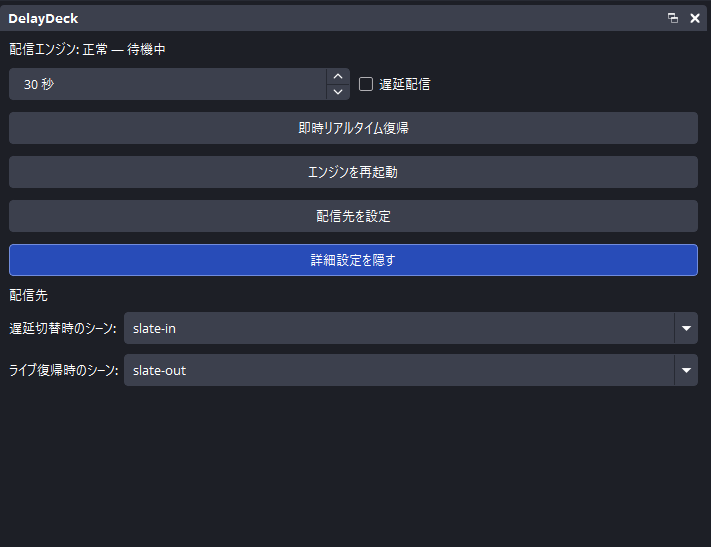
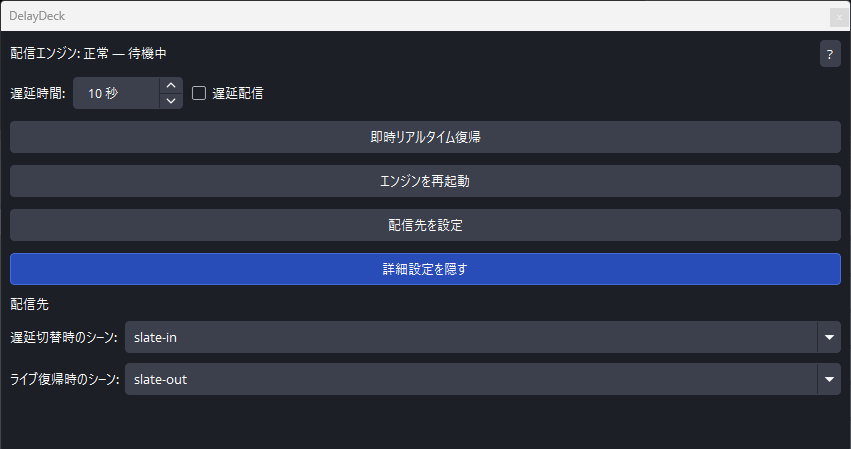
DelayDeckのバージョンを安定版1.0.0に更新。新しい「About」ダイアログを追加し、ツールチップを改善。

diff --git a/apps/obs-plugin/src/dock/about-dialog.cpp b/apps/obs-plugin/src/dock/about-dialog.cpp
@@ -1,0 +1,70 @@
+#include "dock/about-dialog.hpp"
+
+#include "locale/tr.hpp"
+#include "version.hpp"
+
+#include <QDialogButtonBox>
+#include <QFont>
+#include <QLabel>
+#include <QVBoxLayout>
+
+namespace delaydeck {
+
+namespace {
+
+constexpr const char *kGithubUrl = "https://github.com/KatoJunta/DelayDeck";
+constexpr const char *kXUrl = "https://x.com/KatoJunta";
+
+QLabel *makeLinkLabel(const QString &text, const char *url, QWidget *parent)
+{
+	auto *label = new QLabel(
+		QStringLiteral("<a href=\"%1\">%2</a>")
+			.arg(QString::fromUtf8(url), text.toHtmlEscaped()),
+		parent);
+	label->setOpenExternalLinks(true);
+	label->setTextInteractionFlags(Qt::TextBrowserInteraction);
+	return label;
+}
+
+} // namespace
+
+AboutDialog::AboutDialog(QWidget *parent) : QDialog(parent)
+{
+	setWindowTitle(delaydeck::tr("About.Title"));
+	setModal(true);
+
+	auto *layout = new QVBoxLayout(this);
+	layout->setSpacing(10);
+
+	auto *title = new QLabel(QStringLiteral("DelayDeck"), this);
+	QFont titleFont = title->font();
+	titleFont.setPointSizeF(titleFont.pointSizeF() * 1.4);
+	titleFont.setBold(true);
+	title->setFont(titleFont);
+	layout->addWidget(title);
+
+	auto *version = new QLabel(
+		delaydeck::tr("About.Version")
+			.arg(QString::fromUtf8(DELAYDECK_PLUGIN_VERSION)),
+		this);
+	version->setTextInteractionFlags(Qt::TextSelectableByMouse);
+	layout->addWidget(version);
+
+	auto *description = new QLabel(delaydeck::tr("About.Description"), this);
+	description->setWordWrap(true);
+	layout->addWidget(description);
+
+	layout->addSpacing(4);
+	layout->addWidget(
+		makeLinkLabel(delaydeck::tr("About.GithubLink"), kGithubUrl, this));
+	layout->addWidget(makeLinkLabel(delaydeck::tr("About.XLink"), kXUrl, this));
+	layout->addSpacing(4);
+
+	auto *buttons = new QDialogButtonBox(QDialogButtonBox::Close, this);
+	connect(buttons, &QDialogButtonBox::rejected, this, &QDialog::reject);
+	layout->addWidget(buttons);
+
+	setFixedSize(sizeHint());
+}
+
+} // namespace delaydeck

diff --git a/apps/obs-plugin/src/dock/delaydeck-dock.cpp b/apps/obs-plugin/src/dock/delaydeck-dock.cpp
@@ -3,6 +3,7 @@
 #include "config/dock-settings.hpp"
 #include "config/relay-settings.hpp"
 #include "config/setup-dialog.hpp"
+#include "dock/about-dialog.hpp"
 #include "locale/tr.hpp"
 #include "preflight/preflight-checker.hpp"
 #include "preflight/preflight-dialog.hpp"
@@ -19,6 +20,7 @@
 #include <QMessageBox>
 #include <QSignalBlocker>
 #include <QTimer>
+#include <QToolButton>
 #include <QVBoxLayout>
 
 namespace {
@@ -297,10 +299,19 @@ DelayDeckDock::DelayDeckDock(QWidget *parent) : QWidget(parent)
 	auto *layout = new QVBoxLayout(this);
 	layout->setSpacing(8);
 
+	auto *summary_row = new QHBoxLayout();
 	summary_label_ = new QLabel(this);
 	summary_label_->setWordWrap(true);
 	summary_label_->setTextInteractionFlags(Qt::TextSelectableByMouse);
-	layout->addWidget(summary_label_);
+	summary_row->addWidget(summary_label_, 1);
+
+	help_button_ = new QToolButton(this);
+	help_button_->setText(QStringLiteral("?"));
+	help_button_->setAutoRaise(true);
+	help_button_->setToolTip(delaydeck::tr("Tooltip.Help"));
+	help_button_->setAccessibleName(delaydeck::tr("About.Title"));
+	summary_row->addWidget(help_button_, 0, Qt::AlignTop);
+	layout->addLayout(summary_row);
 
 	transition_label_ = new QLabel(this);
 	transition_label_->setWordWrap(true);
@@ -308,23 +319,34 @@ DelayDeckDock::DelayDeckDock(QWidget *parent) : QWidget(parent)
 	layout->addWidget(transition_label_);
 
 	auto *control_row = new QHBoxLayout();
+	auto *target_delay_label =
+		new QLabel(delaydeck::tr("Label.TargetDelay"), this);
+	control_row->addWidget(target_delay_label);
 	target_delay_spin_ = new QSpinBox(this);
 	target_delay_spin_->setRange(1, 600);
 	target_delay_spin_->setValue(30);
 	target_delay_spin_->setSuffix(delaydeck::tr("Value.DelaySuffix"));
+	target_delay_spin_->setToolTip(delaydeck::tr("Tooltip.TargetDelay"));
+	target_delay_label->setBuddy(target_delay_spin_);
 	control_row->addWidget(target_delay_spin_);
 	delay_toggle_ = new QCheckBox(delaydeck::tr("Toggle.DelayStream"), this);
+	delay_toggle_->setToolTip(delaydeck::tr("Tooltip.DelayToggle"));
 	control_row->addWidget(delay_toggle_);
+	control_row->addStretch();
 	layout->addLayout(control_row);
 
 	dump_buffer_button_ = new QPushButton(delaydeck::tr("Button.DumpBuffer"), this);
+	dump_buffer_button_->setToolTip(delaydeck::tr("Tooltip.DumpBuffer"));
 	layout->addWidget(dump_buffer_button_);
 
 	restart_relay_button_ = new QPushButton(delaydeck::tr("Button.RestartRelay"), this);
+	restart_relay_button_->setToolTip(delaydeck::tr("Tooltip.RestartRelay"));
 	layout->addWidget(restart_relay_button_);
 
 	setup_destination_button_ =
 		new QPushButton(delaydeck::tr("Button.SetupDestination"), this);
+	setup_destination_button_->setToolTip(
+		delaydeck::tr("Tooltip.SetupDestination"));
 	layout->addWidget(setup_destination_button_);
 
 	advanced_toggle_button_ = new QPushButton(delaydeck::tr("Section.ShowAdvanced"), this);
@@ -340,7 +362,11 @@ DelayDeckDock::DelayDeckDock(QWidget *parent) : QWidget(parent)
 	auto *scene_grid = new QGridLayout();
 	scene_grid->setColumnStretch(1, 1);
 	enable_slate_scene_combo_ = new QComboBox(advanced_panel_);
+	enable_slate_scene_combo_->setToolTip(
+		delaydeck::tr("Tooltip.EnableSlateScene"));
 	return_slate_scene_combo_ = new QComboBox(advanced_panel_);
+	return_slate_scene_combo_->setToolTip(
+		delaydeck::tr("Tooltip.ReturnSlateScene"));
 	scene_grid->addWidget(new QLabel(delaydeck::tr("Label.EnableSlateScene"), advanced_panel_),
 			      0, 0);
 	scene_grid->addWidget(enable_slate_scene_combo_, 0, 1);
@@ -390,6 +416,8 @@ DelayDeckDock::DelayDeckDock(QWidget *parent) : QWidget(parent)
 		&DelayDeckDock::onRestartRelayClicked);
 	connect(setup_destination_button_, &QPushButton::clicked, this,
 		&DelayDeckDock::openSetupDialog);
+	connect(help_button_, &QToolButton::clicked, this,
+		&DelayDeckDock::openAboutDialog);
 	connect(advanced_toggle_button_, &QPushButton::toggled, this,
 		&DelayDeckDock::onAdvancedToggled);
 	connect(target_delay_spin_, qOverload<int>(&QSpinBox::valueChanged), this,
@@ -1161,6 +1189,12 @@ void DelayDeckDock::openSetupDialog()
 	if (relay_process_->isManaged()) {
 		relay_process_->restartRelay();
 	}
+}
+
+void DelayDeckDock::openAboutDialog()
+{
+	delaydeck::AboutDialog dialog(this);
+	dialog.exec();
 }
 
 void DelayDeckDock::maybePromptSetup()

diff --git a/apps/obs-plugin/src/dock/about-dialog.hpp b/apps/obs-plugin/src/dock/about-dialog.hpp
@@ -1,0 +1,14 @@
+#pragma once
+
+#include <QDialog>
+
+namespace delaydeck {
+
+class AboutDialog final : public QDialog {
+	Q_OBJECT
+
+public:
+	explicit AboutDialog(QWidget *parent = nullptr);
+};
+
+} // namespace delaydeck

diff --git a/apps/obs-plugin/src/dock/delaydeck-dock.hpp b/apps/obs-plugin/src/dock/delaydeck-dock.hpp
@@ -16,6 +16,7 @@
 #include <QPushButton>
 #include <QSpinBox>
 #include <QTimer>
+#include <QToolButton>
 #include <QWidget>
 
 class DelayDeckDock final : public QWidget {
@@ -86,6 +87,7 @@ private:
 	void onReturnSlateSceneChanged();
 	void scheduleSettingsSave();
 	void openSetupDialog();
+	void openAboutDialog();
 	void maybePromptSetup();
 	void notifyObsStopDiscardedDelay();
 	void applyDockSettings(int targetDelaySeconds, bool delayStream,
@@ -109,6 +111,7 @@ private:
 	QPushButton *dump_buffer_button_;
 	QPushButton *restart_relay_button_;
 	QPushButton *setup_destination_button_;
+	QToolButton *help_button_;
 
 	SlateSceneController slate_scene_controller_;
 	RelayLinkState link_state_ = RelayLinkState::Disconnected;

diff --git a/apps/relay-engine/internal/version/version.go b/apps/relay-engine/internal/version/version.go
@@ -2,4 +2,4 @@
 
 package version
 
-const Version = "0.1.0"
+const Version = "1.0.0"

diff --git a/README.en.md b/README.en.md
@@ -105,15 +105,15 @@ Step-by-step guide for users who are less familiar with PC tasks.
 ### 2. Download the ZIP from GitHub Releases
 
 1. Open [GitHub Releases](https://github.com/KatoJunta/DelayDeck/releases).
-2. Pick the release you want (e.g. `v0.1.0`).
+2. Pick the release you want (e.g. `v1.0.0`).
 3. Download the ZIP for your OBS version.
 
 Example file names:
 
 ```text
-delaydeck-v0.1.0-obs-32.1.2-windows-x64.zip
-delaydeck-v0.1.0-obs-31.1.2-windows-x64.zip
-delaydeck-v0.1.0-obs-30.2.3-windows-x64.zip
+delaydeck-v1.0.0-obs-32.1.2-windows-x64.zip
+delaydeck-v1.0.0-obs-31.1.2-windows-x64.zip
+delaydeck-v1.0.0-obs-30.2.3-windows-x64.zip
 ```
 
 The segment after `obs-` is the OBS version. Verify the SHA256 checksum on the release page if one is provided.

diff --git a/README.md b/README.md
@@ -105,15 +105,15 @@ macOS / Linux 向けの配布物は、現時点では提供していません。
 ### 2. Release から ZIP をダウンロードする
 
 1. ブラウザで [GitHub Releases](https://github.com/KatoJunta/DelayDeck/releases) を開きます。
-2. 使いたいバージョン（例: `v0.1.0`）の Release を選びます。
+2. 使いたいバージョン（例: `v1.0.0`）の Release を選びます。
 3. 自分の OBS バージョンに合った ZIP をダウンロードします。
 
 ファイル名の例:
 
 ```text
-delaydeck-v0.1.0-obs-32.1.2-windows-x64.zip
-delaydeck-v0.1.0-obs-31.1.2-windows-x64.zip
-delaydeck-v0.1.0-obs-30.2.3-windows-x64.zip
+delaydeck-v1.0.0-obs-32.1.2-windows-x64.zip
+delaydeck-v1.0.0-obs-31.1.2-windows-x64.zip
+delaydeck-v1.0.0-obs-30.2.3-windows-x64.zip
 ```
 
 `obs-` の後ろが OBS のバージョンです。Release ページに SHA256 が表示されている場合は、ダウンロード後に照合してください。